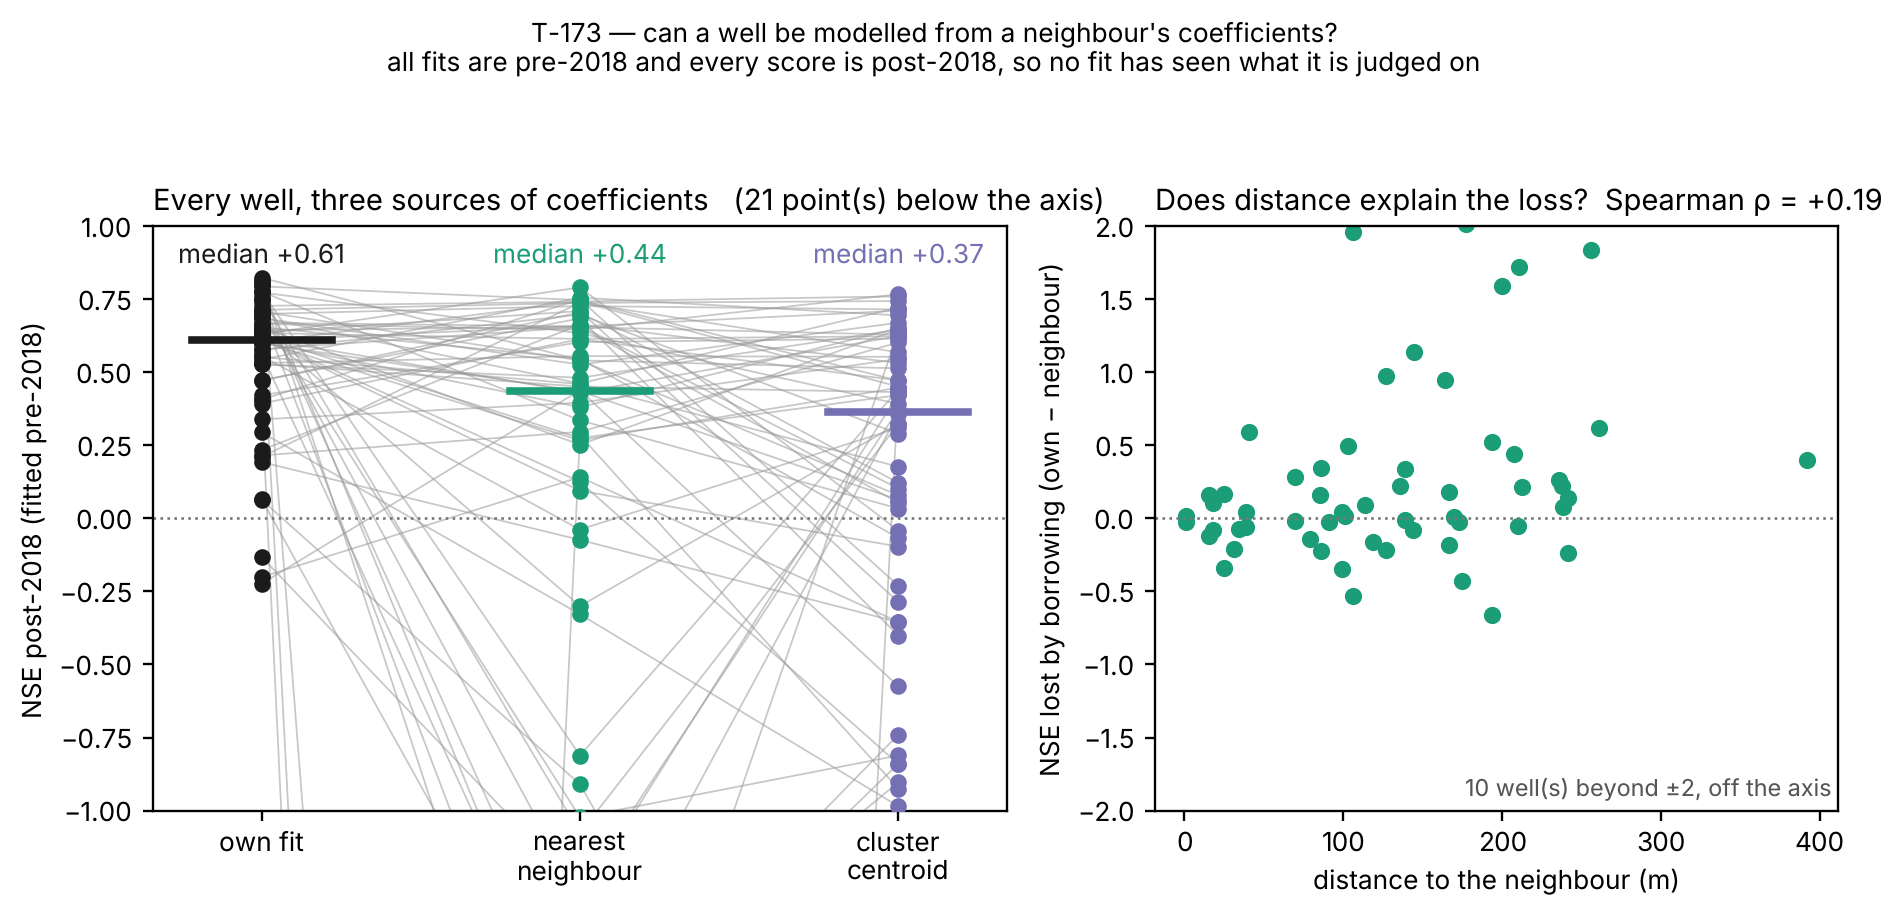
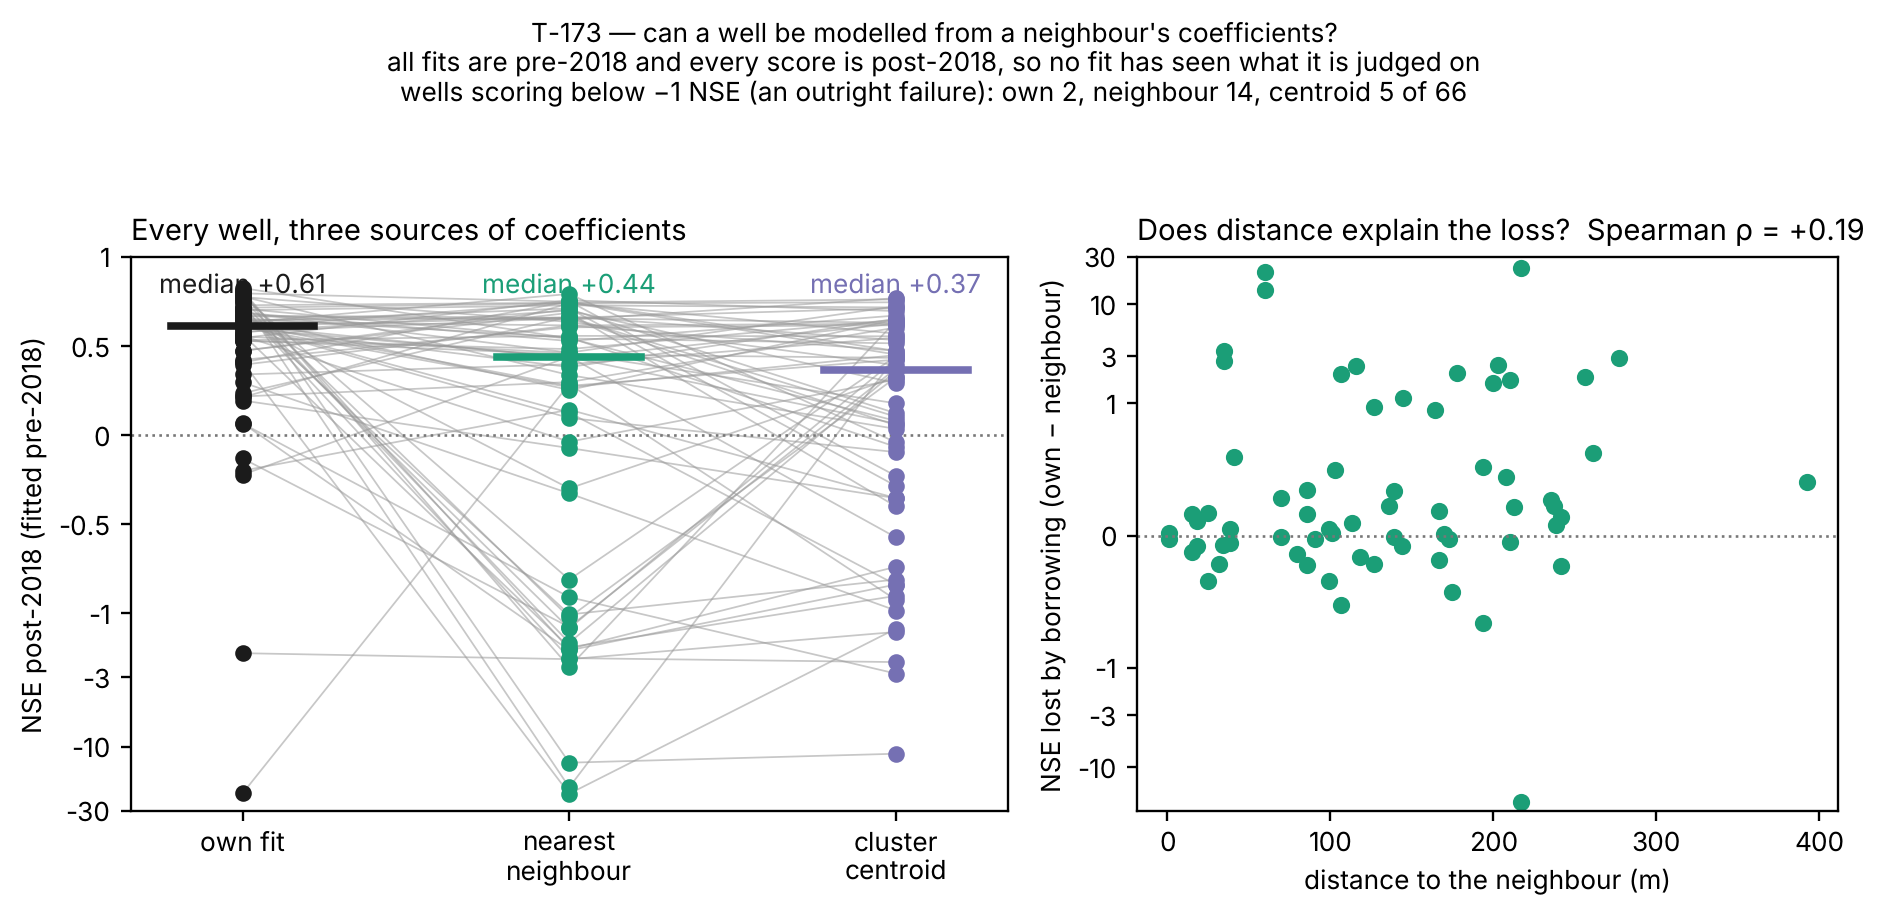
T-173: a symlog axis, because the clip was hiding the finding
Martin, reading the figure: "the nearest neighbour graph, that's truncated at the bottom,
so I can't really see what's going on there." He is right, and the truncation was not just
cosmetic -- it hid the result.

The left panel was linear and clipped at -1 NSE, which put 21 of 198 points off the axis
and left a reader with "borrowing costs about 0.17 NSE at the median". The median is the
least interesting part. Borrowing a neighbour's fit FAILS OUTRIGHT at 14 of the 66 wells
(NSE below -1, four of them below -13), against 2 wells on their own fit. The typical cost
is small; the risk is concentrated, and it was the concentrated part that was cropped.

Both panels are now symlog -- linear from +1 down to -1, logarithmic below -- so the bulk
keeps its resolution and the failures stay on the page. The per-source counts below -1 ride
the suptitle; appended to the left panel's title they overran into the right panel's.

Claude-Session: https://claude.ai/code/session_0121bgnCdcRQCgYoSxKqcjMz

diff --git a/src/50_record_length.py b/src/50_record_length.py
@@ -1019,12 +1019,22 @@ def plot_neighbour_transfer(nbt) -> None:
     ax.set_xticklabels(["own fit", "nearest\nneighbour", "cluster\ncentroid"], fontsize=9)
     ax.set_ylabel("NSE post-2018 (fitted pre-2018)", fontsize=9)
     ax.axhline(0.0, color="#777777", lw=0.9, ls=":")
-    ax.set_ylim(-1.0, 1.0)
+    # SYMLOG, not a clip. A linear axis cropped at -1 hid the finding: borrowing does not
+    # merely cost a little at the median, it FAILS OUTRIGHT at a fifth of wells (14 of 66
+    # below -1 NSE on a neighbour's fit, four below -13, against 2 on a well's own). Those
+    # are the wells a reader most needs to see, and they were the ones off the axis.
+    # Linear from +1 down to -1, logarithmic below, so the bulk keeps its resolution and
+    # the failures stay on the page.
+    ax.set_yscale("symlog", linthresh=1.0, linscale=1.2)
+    _lo = float(np.nanmin(piv[order].values))
+    ax.set_ylim(min(-30.0, _lo * 1.2), 1.0)
+    ax.set_yticks([1, 0.5, 0, -0.5, -1, -3, -10, -30])
+    ax.get_yaxis().set_major_formatter(matplotlib.ticker.FuncFormatter(
+        lambda v, _: f"{v:g}"))
     ax.tick_params(labelsize=9)
-    _below = int((piv[order] < -1.0).sum().sum())
-    ax.set_title("Every well, three sources of coefficients"
-                 + (f"   ({_below} point(s) below the axis)" if _below else ""),
-                 fontsize=10, loc="left")
+    _bad = {k: int((piv[k] < -1).sum()) for k in order}
+    # the counts ride the suptitle: appended here the title overran the right panel's
+    ax.set_title("Every well, three sources of coefficients", fontsize=10, loc="left")
 
     ax = axes[1]
     if "neighbour" in piv.columns and "distance_m" in nbt.columns:
@@ -1037,13 +1047,12 @@ def plot_neighbour_transfer(nbt) -> None:
         # A handful of wells where one of the two fits fails outright carry a loss of +-20
         # NSE and flatten every other point into the zero line. Clip to the bulk and SAY how
         # many are outside, rather than letting four points hide sixty.
-        _lim = 2.0
-        _out = int((m["loss"].abs() > _lim).sum())
-        ax.set_ylim(-_lim, _lim)
-        if _out:
-            ax.text(0.99, 0.02, f"{_out} well(s) beyond \u00b1{_lim:.0f}, off the axis",
-                    transform=ax.transAxes, ha="right", va="bottom", fontsize=8,
-                    color="#555555")
+        ax.set_yscale("symlog", linthresh=1.0, linscale=1.2)
+        _a = float(np.nanmax(np.abs(m["loss"].values))) if len(m) else 1.0
+        ax.set_ylim(-max(3.0, _a * 1.2), max(3.0, _a * 1.2))
+        ax.set_yticks([-10, -3, -1, 0, 1, 3, 10, 30])
+        ax.get_yaxis().set_major_formatter(matplotlib.ticker.FuncFormatter(
+            lambda v, _: f"{v:g}"))
         ax.set_xlabel("distance to the neighbour (m)", fontsize=9)
         ax.set_ylabel("NSE lost by borrowing (own − neighbour)", fontsize=9)
         ax.tick_params(labelsize=9)
@@ -1053,7 +1062,10 @@ def plot_neighbour_transfer(nbt) -> None:
                          fontsize=10, loc="left")
     fig.suptitle("T-173 — can a well be modelled from a neighbour's coefficients?\n"
                  "all fits are pre-2018 and every score is post-2018, so no fit has seen "
-                 "what it is judged on", fontsize=9)
+                 "what it is judged on\n"
+                 + "wells scoring below −1 NSE (an outright failure): "
+                 + ", ".join(f"{k} {v}" for k, v in _bad.items())
+                 + f" of {len(piv)}", fontsize=9)
     fig.tight_layout(rect=[0, 0, 1, 0.93])
     render_figure(fig, OUT_50_NEIGHBOUR_FIG)
     plt.close(fig)
